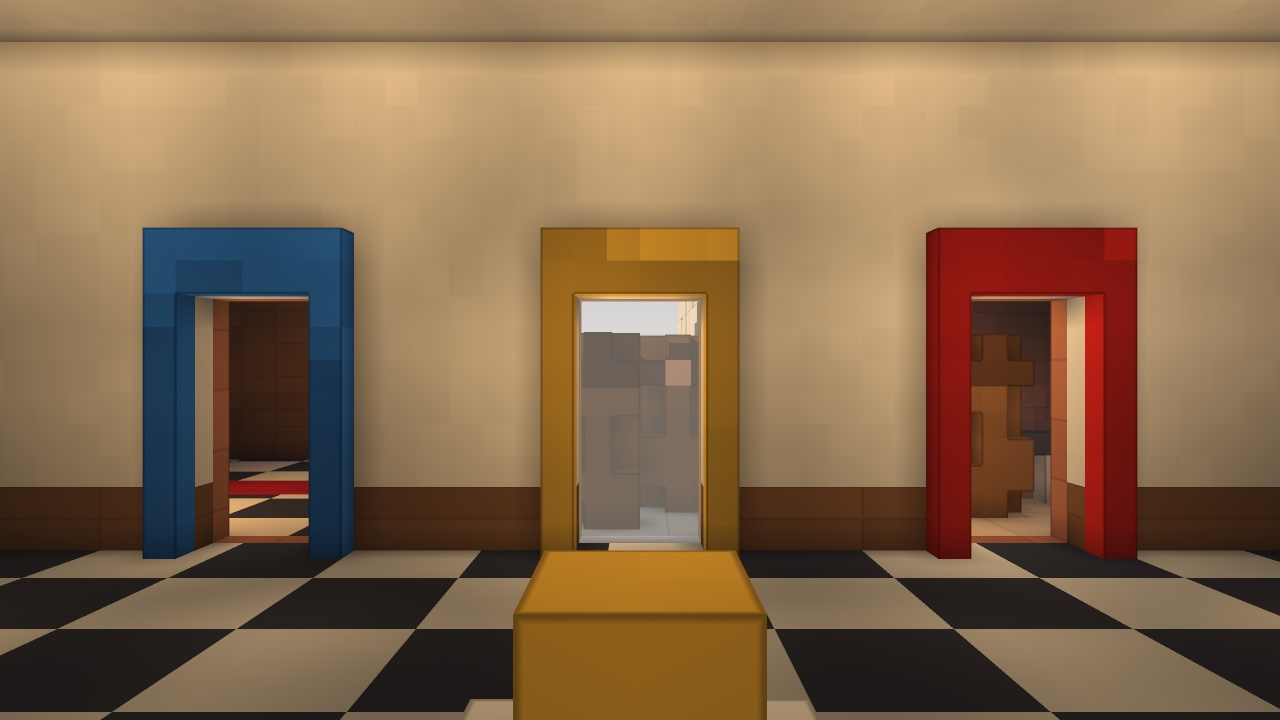
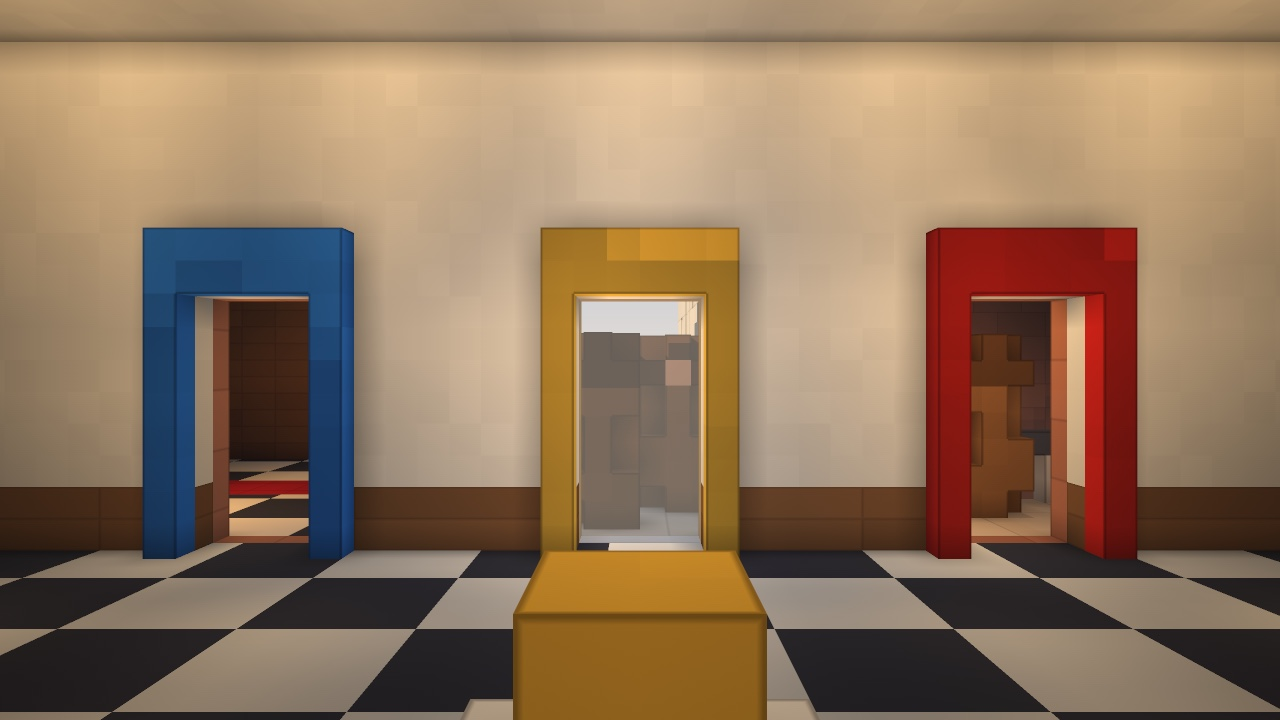
Let sky light through a seam out of an outdoors room
Light::flood fills every voxel of an outdoors room with full sky light
but never queues those voxels, so the flood never leaves the room. An
indoor room glued to an outdoors one gets no sky light through the
doorway, though lamp light and sky light from an indoor room's own open
edge both cross seams. The paper says sky light crosses seams of any
turn; for light out of an outdoors room it did not.

Queue the empty voxels on every seam that leads out of an outdoors room
into one that is not. The new test glues a yard to a closed hut: the
voxel past the doorway gets REACH - 1, the far wall REACH - 8, and
nothing once the doorway is shut. It fails without the change.

The demo's gallery has a door to the tower, which is outdoors, so the
gallery is now lit through it, and the well and the hall through their
doors from the gallery. Their sky-light hashes in tests/worlds.rs are
recorded again from this engine, with a note that these three are not
the reference build's. The gallery, mirror and hall stills in docs/ and
paper/figures/ are rendered again with the shots in paper/stills.sh. The
well still is unchanged, and the tower's light is unchanged. The frame
time table is not re-measured.

diff --git a/crates/groxel-light/tests/light.rs b/crates/groxel-light/tests/light.rs
@@ -91,6 +91,49 @@ fn an_outdoors_room_is_all_sky() {
     );
 }
 
+/// A closed room whose only opening is a doorway glued to an outdoors room
+/// is lit by the sky through the doorway, as it would be through an
+/// opening onto its own open edge.
+#[test]
+fn sky_comes_through_a_seam_from_outdoors() {
+    let mut w = World::new();
+    let yard = w.add_room("yard", ivec3(6, 3, 3));
+    let hut = w.add_room("hut", ivec3(10, 5, 5));
+    // Walls all round; the inside is x 1..=8, y 1..=3, z 1..=3.
+    let r = w.room_mut(hut);
+    r.fill(ivec3(0, 0, 0), ivec3(9, 4, 4), 1);
+    r.fill(ivec3(1, 1, 1), ivec3(8, 3, 3), 0);
+    w.glue(
+        FaceRect {
+            room: yard,
+            min: ivec3(5, 0, 0),
+            max: ivec3(5, 2, 2),
+            face: Face::PosX,
+        },
+        FaceRect {
+            room: hut,
+            min: ivec3(1, 1, 1),
+            max: ivec3(1, 3, 3),
+            face: Face::NegX,
+        },
+        Orientation::IDENTITY,
+    )
+    .unwrap();
+
+    let light = Light::flood(&w, glows, |room| room == yard);
+    let at = |x| Cell {
+        room: hut,
+        at: ivec3(x, 2, 2),
+    };
+    assert_eq!(light.sky(at(1)), REACH - 1);
+    assert_eq!(light.sky(at(8)), REACH - 8);
+
+    // Shut the doorway and the hut is dark.
+    w.room_mut(yard).fill(ivec3(5, 0, 0), ivec3(5, 2, 2), 1);
+    let light = Light::flood(&w, glows, |room| room == yard);
+    assert_eq!(light.sky(at(1)), 0);
+}
+
 /// Cut a random world in two, turn one half each of the 48 ways and glue it
 /// back. Every voxel must have the lamp and sky light it has in the uncut
 /// world.

diff --git a/crates/groxel-app/tests/worlds.rs b/crates/groxel-app/tests/worlds.rs
@@ -85,6 +85,12 @@ impl Fnv {
 // earlier implementation of this engine, by a program that walks every voxel
 // of every room. They are hashes, so a failure says only that something
 // differs; the other tests say what.
+//
+// Three numbers are not the reference build's: the sky light of the gallery,
+// the well and the hall. The reference build let no sky light through a seam
+// out of an outdoors room, so the gallery was not lit through its door to
+// the tower, nor the well and the hall through their doors from the gallery.
+// They are now, and those three hashes were recorded again from this engine.
 
 /// What the reference build has in one room.
 struct Reference {
@@ -122,7 +128,7 @@ const REFERENCE: [Reference; 4] = [
         seam_faces: 456,
         seams: 0xb164_c765_5075_4765,
         lamp: 0x582d_01b9_474e_bbeb,
-        sky: 0xe49f_4491_96fc_5e4e,
+        sky: 0x4422_a920_2b4a_e547,
         env: 0x7f71_2c27_6a59_39c8,
     },
     Reference {
@@ -134,7 +140,7 @@ const REFERENCE: [Reference; 4] = [
         seam_faces: 3560,
         seams: 0x2247_c972_b28e_e07e,
         lamp: 0xc50a_a6f6_1056_c95d,
-        sky: 0x9127_1c8c_6d82_7e48,
+        sky: 0x74d2_c4dc_9961_a8d7,
         env: 0x2ed4_4993_9198_3135,
     },
     Reference {
@@ -158,7 +164,7 @@ const REFERENCE: [Reference; 4] = [
         seam_faces: 1000,
         seams: 0xc022_da7d_2a48_1c18,
         lamp: 0x477a_7a49_04c9_2c66,
-        sky: 0x764e_fb67_a135_334c,
+        sky: 0x14a8_3956_a762_e83c,
         env: 0x515f_02be_f3b9_b26a,
     },
 ];

diff --git a/crates/groxel-light/src/lib.rs b/crates/groxel-light/src/lib.rs
@@ -67,7 +67,8 @@ impl Light {
     /// Work out both kinds of light for the whole world.
     ///
     /// `glows` says which materials are lamps. `outdoors` says which rooms
-    /// are open air: every voxel of such a room has full sky light.
+    /// are open air: every voxel of such a room has full sky light, and it
+    /// spreads from there through seams into the rooms that are not.
     pub fn flood(
         world: &World,
         glows: impl Fn(u8) -> bool,
@@ -119,6 +120,27 @@ impl Light {
                 });
                 if open {
                     light.seed(world, cell, Field::Sky, &mut queue);
+                }
+            }
+        }
+        // It also comes through any seam out of an outdoors room into one
+        // that is not. The voxels on the outdoors side are already full, so
+        // they are queued as they are.
+        for seam in world.seams() {
+            let (from, to) = (seam.from.room, seam.to);
+            if !outdoors(from) || outdoors(to) {
+                continue;
+            }
+            let room = world.room(from);
+            let (lo, hi) = (seam.from.min, seam.from.max);
+            for z in lo[2]..=hi[2] {
+                for y in lo[1]..=hi[1] {
+                    for x in lo[0]..=hi[0] {
+                        let at = ivec3(x, y, z);
+                        if !room.is_solid(at) {
+                            queue.push((Cell { room: from, at }, REACH));
+                        }
+                    }
                 }
             }
         }
